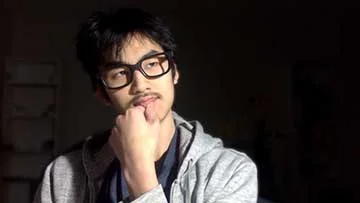
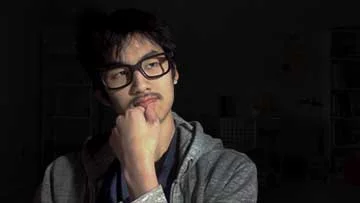
Fixed blogs - Rewrote the insanity of #1 - Cited #3 - Fixed photo for #3 - New tst record!

diff --git a/src/views/blog/TheoryOfKnowledge.vue b/src/views/blog/TheoryOfKnowledge.vue
@@ -23,20 +23,28 @@
         I will be discussing “To what extent are theories concluded by multiple theories more plausible to be considered more pragmatically valid than those concluded by a single theory?” to determine whether retaining a multiplicity of theories is beneficial in pragmatically validating theories that help us understand the world. Given that theories in the area of knowledge of natural science can only be disproved, rather than proved, theories concluded by a single theory are more vulnerable to be pragmatically invalid than theories concluded by multiple theories, because the former is coherent to less theories than the latter, which means that if the theory that it concludes from is disproved, the entire concluded theory would be hypothetical. Whereas the disproving of one theory of the multiple theories that conclude the latter theory would not always completely pragmatically invalidate the concluded theory.
       </div>
       <div class="paragraph">
-        When Albert Einstein wrote his field equations for general relativity in 1917, he noticed the inaccuracy in his equation despite having the correct variables. As a result, he proposed that there existed a cosmological constant, which is the energy density of space, that should be put into the equation. The cosmological constant was determined by Einstein with the theories of general relativity and static universe — a cosmological model in which the universe is spatially and temporally infinite, and is neither expanding nor contracting. The presence of this constant was later questioned in 1931, as Edwin Hubble proposed that the universe is not static, but is expanding. Consequently, most physicists believed that there existed no such cosmological constant. However, due to the coherence of the cosmological constant with Einstein’s field equation for general relativity, the theory of this constant was not completely invalidated. Either there exists a cosmological constant, or Einstein’s field equation was wrong. In 1998, it was discovered that the expansion of the universe is accelerating, which suggests that there does exist such a cosmological constant, and is a positive non-zero number. This exemplifies how a theory that is concluded from multiple theories is not necessarily invalid when one of the many theories that it concludes from is proven to be invalid. On the other hand, when a theory is concluded from only one theory, the invalidation of just one theory could make the entire conclusion hypothetical. An example of this is the luminiferous aether theory of light. People believed that light was unable to propagate through a vacuum. Accordingly, they assumed that there existed a space-filling substance or field called the “aether” to propagate light. The luminiferous aether theory was then further used to explain the propagation of electromagnetic and gravitational forces. However, when Michelson Morely disproved the luminiferous aether theory in 1887, the aether explanation for electromagnetic and gravitational forces was immediately debunked. Therefore, theories concluded by a single theory are more vulnerable to be pragmatically invalid than theories concluded by multiple theories. As supported by the examples, a theory concluded from only one theory can be invalidated as long as the theory that it concludes from is invalidated, but theories that are concluded from multiple theories cannot be completely invalidated with the invalidation of only one theory. Thence, we need to retain a multiplicity of theories to understand the world because they help us conclude theories that are more pragmatically valid.
+        When Albert Einstein wrote his field equations for general relativity in 1917, he noticed the inaccuracy in his equation despite having the correct variables. As a result, he proposed that there existed a cosmological constant, which is the energy density of space, that should be put into the equation. The cosmological constant was determined by Einstein with the theories of general relativity and static universe — a cosmological model in which the universe is spatially and temporally infinite, and is neither expanding nor contracting.<sup>1</sup> The presence of this constant was later questioned in 1931, as Edwin Hubble proposed that the universe is not static, but is expanding.<sup>2</sup> Consequently, most physicists believed that there existed no such cosmological constant. However, due to the coherence of the cosmological constant with Einstein’s field equation for general relativity, the theory of this constant was not completely invalidated. Either there exists a cosmological constant, or Einstein’s field equation was wrong. In 1998, it was discovered that the expansion of the universe is accelerating, which suggests that there does exist such a cosmological constant, and is a positive non-zero number.<sup>3</sup> This exemplifies how a theory that is concluded from multiple theories is not necessarily invalid when one of the many theories that it concludes from is proven to be invalid. On the other hand, when a theory is concluded from only one theory, the invalidation of just one theory could make the entire conclusion hypothetical. An example of this is the luminiferous aether theory of light. People believed that light was unable to propagate through a vacuum. Accordingly, they assumed that there existed a space-filling substance or field called the “aether” to propagate light. The luminiferous aether theory was then further used to explain the propagation of electromagnetic and gravitational forces. However, when Michelson Morely disproved the luminiferous aether theory in 1887, the aether explanation for electromagnetic and gravitational forces was immediately debunked. Therefore, theories concluded by a single theory are more vulnerable to be pragmatically invalid than theories concluded by multiple theories. As supported by the examples, a theory concluded from only one theory can be invalidated as long as the theory that it concludes from is invalidated, but theories that are concluded from multiple theories cannot be completely invalidated with the invalidation of only one theory. Thence, we need to retain a multiplicity of theories to understand the world because they help us conclude theories that are more pragmatically valid.
       </div>
       <div class="paragraph">
-        On the contrary, in the area of knowledge of ethics, standards are usually formed by a single theory that a person prefers, and the acceptance of a theory usually comes at the expense of rejecting the others. Therefore, theories concluded by multiple theories are pragmatically valid to no extent because retaining a multiplicity of theories causes the corresponding validation to contradict the other theories, which induces a pragmatic discrepancy with personal ethical standards. In a worldwide survey of 2.3 million people called The Moral Machine, people from the Western, Eastern, and Southern sides of the world were prompted with a hypothetical ethical dilemma of who they would spare in an inevitable car crash, if they were the programmers of a self-driving car. As a result, most Eastern people would spare the elderly, most Southern people would spare the children, whereas most Western people would remain inactive. This divergent result reflects that the acquisition of knowledge in ethics is dependent on personal preferences, and is different across the world because of divergent cultural values, which implies that most ethical standards are not universal. If one chooses not to crash into the children because they support the theory that young lives are more valuable, they then automatically reject the theory that old lives are more valuable. Even if the complexity of the dilemma was higher, such as a group of elderly to one child, either choice would reject the theory that the quantitative and qualitative value of the other side is higher. Therefore, one cannot conclude pragmatic ethical theories while retaining a multiplicity of other ethical theories, and thus, we do not need to retain a multiplicity of theories to understand the world of ethical choices.
+        On the contrary, in the area of knowledge of ethics, standards are usually formed by a single theory that a person prefers, and the acceptance of a theory usually comes at the expense of rejecting the others. Therefore, theories concluded by multiple theories are pragmatically valid to no extent because retaining a multiplicity of theories causes the corresponding validation to contradict the other theories, which induces a pragmatic discrepancy with personal ethical standards. In a worldwide survey of 2.3 million people called The Moral Machine, people from the Western, Eastern, and Southern sides of the world were prompted with a hypothetical ethical dilemma of who they would spare in an inevitable car crash, if they were the programmers of a self-driving car.<sup>4</sup> As a result, most Eastern people would spare the elderly, most Southern people would spare the children, whereas most Western people would remain inactive.<sup>5</sup> This divergent result reflects that the acquisition of knowledge in ethics is dependent on personal preferences, and is different across the world because of divergent cultural values, which implies that most ethical standards are not universal. If one chooses not to crash into the children because they support the theory that young lives are more valuable, they then automatically reject the theory that old lives are more valuable. Even if the complexity of the dilemma was higher, such as a group of elderly to one child, either choice would reject the theory that the quantitative and qualitative value of the other side is higher. Therefore, one cannot conclude pragmatic ethical theories while retaining a multiplicity of other ethical theories, and thus, we do not need to retain a multiplicity of theories to understand the world of ethical choices.
       </div>
       <div class="paragraph">
         Next, I will be discussing “To what extent does the multiplicity of premises in a syllogism make their limitation lower than the limitation of the theory that they conclude?” to determine the necessity of retaining a multiplicity of theories to overcome the limitations of each individual theory. The conclusion of a theory in syllogism can be made using either inductive or deductive reasoning. When using inductive reasoning, the conclusion must have an equal or higher limitation than the premises. For example, in the area of knowledge of natural science, the premises of “all atoms have at least one proton” and “boron is an atom” can lead us to conclude that boron has at least one proton. In this example, the conclusion has a higher limitation than the premises by stating that boron specifically has at least one proton. Although this shows that retaining a multiplicity of theories helps us conclude more specific theories, it does not help us overcome the limitations of the premises, as the conclusion has a higher limitation. On the other hand, while deductive reasoning helps us overcome the limitations of the premises, unlike inductive reasoning, scientists need to use other theories to explain why the deduced conclusion works. For example, a sample of premises that each state that a specific ionic compound has a high boiling point were put together to conclude that all ionic compounds have high boiling points. However, after the scientists made that conclusion, they went on and explained the phenomenon by stating that ionic compounds have high electrostatic forces of attraction between the oppositely charged ions, hence require more energy to be broken apart. This means that retaining a multiplicity of premises overcomes the limitation of each premise to a limited extent because it does not lead to a lower limitation without the explanation from another scientific theory, and that scientific theory can be used to overcome the limitations without the multiplicity of the premises anyway.
       </div>
       <div class="paragraph">
-        Contrarily, in the area of knowledge of ethics, deduced theories do not need to be explained, as long as they are consistently observed. In an experiment where three to six-month-old babies were shown a scene where a puppet is struggling to open a box, and one puppet tries to help, while the other shuts the box closed, more than three quarters of the babies preferred the puppet who helped rather than the one who did the opposite. They then used deductive reasoning to conclude that humans develop positive feelings toward helpful individuals, at as early as three months old. This conclusion was made and accepted without having an explanation, because the phenomenon was consistently observed. Thus, retaining a multiplicity of premises does help us overcome their limitations, and support theories that help us better understand the world.
+        Contrarily, in the area of knowledge of ethics, deduced theories do not need to be explained, as long as they are consistently observed. In an experiment where three to six-month-old babies were shown a scene where a puppet is struggling to open a box, and one puppet tries to help, while the other shuts the box closed, more than three quarters of the babies preferred the puppet who helped rather than the one who did the opposite. They then used deductive reasoning to conclude that humans develop positive feelings toward helpful individuals, at as early as three months old.<sup>6</sup> This conclusion was made and accepted without having an explanation, because the phenomenon was consistently observed. Thus, retaining a multiplicity of premises does help us overcome their limitations, and support theories that help us better understand the world.
       </div>
       <div class="paragraph">
         To understand the world, we must continue exploring and validating new theories. In the areas of knowledge with relativism, the multiplicity of theories leads to contradiction and therefore hinders the pragmatic validity of theories. However, in other areas of knowledge, it prevents theories from being disproved, and thus helps us enforce pragmatic validity. Moreover, in areas of knowledge where theories can be validated using only observation, the multiplicity of theories can even assist us in overcoming the limitation of each individual theory, helping us explore new theories.
       </div>
+      <cite>
+        <div>1. Albert Einstein, <em>Kosmologische Betrachtungen zur allgemeinen Relativitätstheorie</em> (Sitzungsberichte der Königlich Preußischen Akademie der Wissenschaften. Berlin, DE., 1917), part 1: 142–152. <span style="color: #ff6dcc;">Yep, that's right. I cited Einstein. Give me my IB diploma already!</span></div>
+        <div>2. Svend Rugh; Henrik Zinkernagel, <em>The Quantum Vacuum and the Cosmological Constant Problem</em> (Studies in History and Philosophy of Modern Physics, 2001), 33 (4): 663–705.</div>
+        <div>3. Nathaniel Scharping, <em>Gravitational Waves Show How Fast The Universe is Expanding</em> (Astronomy,2017), accessed December 26, 2019, <a href="http://www.astronomy.com/news/2017/10/gravitational-waves-show-how-fast-the-universe-is-expanding" target="_blank" rel="noopener noreferrer">http://www.astronomy.com/news/2017/10/gravitational-waves-show-how-fast-the-universe-is-expanding</a>.</div>
+        <div>4. <em>The Moral Machine</em> (Scalable Cooperation at MIT Media Lab, 2016), accessed December 16, <a href="http://moralmachine.mit.edu" target="_blank" rel="noopener noreferrer">http://moralmachine.mit.edu</a>.</div>
+        <div>5. Amy Maxmen, <em>Self-driving car dilemmas reveal that moral choices are not universal</em> (Nature, 2018), accessed December 16, <a href="https://media.nature.com/lw800/magazine-assets/d41586-018-07135-0/d41586-018-07135-0_16219594.png" target="_blank" rel="noopener noreferrer">https://media.nature.com/lw800/magazine-assets/d41586-018-07135-0/d41586-018-07135-0_16219594.png</a>.</div>
+        <div>6. Jason Mudd, <em>60-Minutes "The Baby Lab" 1 of 2</em> (Youtube, 2013), accessed December 16, 2019, <a href="https://www.youtube.com/watch?v=8LIb22-5Lwg" target="_blank" rel="noopener noreferrer">https://www.youtube.com/watch?v=8LIb22-5Lwg</a>.</div>
+      </cite>
     </div>
   </div>
 </template>

diff --git a/src/views/blog/NoHopeForMercy.vue b/src/views/blog/NoHopeForMercy.vue
@@ -22,25 +22,22 @@
       <div class="paragraph">
         What about my belief? Well, my ideas are often more divergent. After a spicy encounter with a girl who I deify, I believe that most people are born innocent, but I was born fake.
       </div>
-      <h1>The deity</h1>
+      <h1>The deities</h1>
       <div class="paragraph">
-        Language is equivocal. Unlike science and math, rules in language arts are inconsistent. Writings can be opened to a duplicity of interpretations, and the same message can also be conveyed through different methods with creativity. I am more of a logos person than I am pathos and ethos. I often feel unmitigated to be in my English IB class where all of my classmates are enlightened with transcendental writing and interpretation skills. Thus, I respect those who are adequate in language arts for their gifted skills that I failed acquired despite the effort I put in.
+        Art is equivocal. Unlike science and math, rules in the area of knowledge of arts are inconsistent. Artworks can be opened to a duplicity of interpretations, and the same message can also be conveyed through different methods with creativity. I am more of a logos person than I am pathos and ethos. I often feel unmitigated to be in my English IB class where all of my classmates are enlightened with transcendental interpretation skills. Thus, I respect those who are adequate in arts for their gifted skills that I failed acquired despite all the effort I put in.
       </div>
       <div class="paragraph">
-        Of these English excelsiors, I especially admire a girl from my English class, who not only uses words like “transcendental”, “anaphora”, and “bravado” casually to share her creative yet logical intelligence in class, but also expertizes drama and improv. Oh, and if that is not enough to impress you, she published a book in grade 11.
-      </div>
-      <div class="paragraph">
-        My feeling for her isn't romantic love or lust. It is purely reverence. She is a role model who I look up to and try to learn from. A role model who reminds me to be humble and thus motivates me to improve. A role model who makes me discard my characteristics to adopt more of hers.
+        I venerate all those art excelsiors. They are people who I look up to and try to learn from. People who remind me to be humble, and motivate me to improve. People who make me discard my characteristics to adopt more of theirs.
       </div>
       <h1>The finale night</h1>
       <div class="paragraph">
-        With such admiration, during the week of our school's One Act Festival, I of course did not let the opportunity to savour her plays slip through. I went to all the days with plays either directed by or staring her, with <a href="https://voovs.github.io" target="_blank" rel="noopener noreferrer">my friend Vova</a>, who is also a worshipper of her. On the finale night, I took down the plays' posters around the school that were no longer in use, and planned to ask for autographs from actors of plays I enjoyed.
+        With such admiration of arts, during the week of our school's One Act Festival, I of course did not let the opportunity to savour performance arts slip through. On the finale night, I took down the plays' posters around the school that were no longer in use, and planned to ask for autographs from actors of plays I enjoyed.
       </div>
       <div class="paragraph">
-        As the night continued, it came to the time for the goddess' play: <em>Hope 'n Mercy</em> — the most insightful and emotional play throughout the festival. Undoubtedly the hardest to act. Expectedly, she perfectly killed that play with her undeniably phenomenal acting. The cathartic anger, sadness, and the unwavering accent that retained even when she was shouting; the multiplicity of characters that she played by changing clothes quickly offstage; and the transition smoother than a puck sliding on ice, altogether gave me a completely fresh experience of enjoying plays.
+        As the night continued, it came to a play that really grabbed my attention: <em>Hope 'n Mercy</em> — the most insightful and emotional play throughout the festival. Undoubtedly the hardest to act. Expectedly, the drama students perfectly killed that play with their undeniably phenomenal acting. The cathartic anger, sadness, and the unwavering accent that retained even when they were shouting; the multiplicity of characters that they played by changing clothes quickly offstage; and the transition smoother than a puck sliding on ice, altogether gave me a completely fresh experience of enjoying plays.
       </div>
       <div class="paragraph">
-        There were two more plays after her performance, so I did not ask for the autograph right away. The last play, <em>Werewolf Therapist</em>, was indisputably the funniest play of the festival. The theatre was filled with laughter every 5 or less seconds. After the last applause evanesced in the theatre, I rushed down the stairs with Vova to get autographs from directors and the, as the goddess puts it in her director's notes, “lovely, adorable, and dedicated actors”.
+        There were two more plays after <em>Hope 'n Mercy</em>, so I did not ask for the autograph right away. The last play, <em>Werewolf Therapist</em>, was indisputably the funniest play of the festival. The theatre was filled with laughter every 5 or less seconds. After the last applause evanesced in the theatre, I rushed down the stairs with <a href="https://voovs.github.io" target="_blank" rel="noopener noreferrer">my friend Vova</a> to get autographs from the directors and, as they put in their directors' notes, “lovely, adorable, and dedicated actors”.
       </div>
       <div class="paragraph">
         Since the crew for <em>Werewolf Therapist</em> was still on the stage complimenting each other's performance, and I had a friend who played a lead role in that play, it made sense that I started with them. It turned out that they loved giving out autographs as it made them feel famous. Within seconds, I was surrounded by the whole crew fighting for their turn to sign my poster. The werewolf even snatched the poster from another actor who was about to sign it, and kissed the poster with his bloody lips.
@@ -52,19 +49,19 @@
       </picture>
       <div class="image-description">The red mark in the centre is the kiss from the werewolf</div>
       <div class="paragraph">
-        By the time the werewolf crew finished signing, the goddess had already left the stage to change with another actor from <em>Hope 'n Mercy</em>. But hey, the reaction from the werewolf crew was so lively, when she comes back from the change room to see Vova and I asking for her autographs, she wouldn't mind signing them either, right?
+        By the time the werewolf crew finished signing, the actors from <em>Hope 'n Mercy</em> had already left the stage to change. But hey, the reaction from the werewolf crew was so lively, when they come back from the change room to see Vova and I asking for their autographs, they wouldn't mind signing them either, right?
       </div>
       <div class="paragraph">
-        So I decided to wait. There were three actors for <em>Hope 'n Mercy</em>. Since two are in the change room, I asked for the signature of the one who played Bradly Jenkins and started chatting with another actor. When the goddess came back, I caught the action of Vova asking for her autograph with the corners of my eyes. I quickly finished off the conversation with the actor, and turned to the goddess and said “May I have one too?”, assuming that Vova had already gotten the autograph.
+        So I decided to wait. There were three actors for <em>Hope 'n Mercy</em>. Since two were in the change room, I asked for the autograph of the other one, who played Bradly Jenkins, and started chatting with another actor. When the other two actors came back, I caught the action of Vova asking for their autographs with the corners of my eyes. I quickly finished off the conversation with the actor, and turned to them and said “May I have one too?”, assuming that Vova had already gotten his.
       </div>
       <div class="paragraph">
-        She took the pen with a bitter expression, and put down her initial with the pen that was running out of ink. An ambivalent feel emanated from the air. On one hand, I was elated because I got her signature, on the other hand, the unusually bitter look on her face was new to me. Unfortunately, I did not pick up on the hint, and asked for another autograph on <em>Coping Mechanism</em> — a play directed by her. She quickly put down her initials again and walked away before I had a chance to get another one for <em>Anybody for Tea?</em>, a comedy she had a minor role in.
+        The actor playing Mrs. Hope took the pen with a bitter expression, and put down her initial with the pen that was running out of ink. An ambivalent feel emanated from the air. On one hand, I was elated because I got her autograph, on the other hand, the unusually bitter look on her face was new to me. Unfortunately, I did not pick up on the hint, and asked for another autograph on <em>Coping Mechanism</em> — a play directed by her. She quickly put down her initials again and walked away before I had a chance to get another one for <em>Anybody for Tea?</em>, a comedy she had a minor role in.
       </div>
       <div class="paragraph">
-        Then I turned to the last actor from <em>Hope 'n Mercy</em>, who also just came out of the changing room. As she was laughing about not having a signature, the goddess took a step toward her and insisted her to just put down her initials. As someone who is terrible at noticing hints, I did not feel anything was wrong at the moment.
+        Then I turned to the last actor from <em>Hope 'n Mercy</em>, who also just came out of the changing room. As she was laughing about not having a signature, the one who just gave me the autograph took a step toward her and insisted to just put down her initials. As someone terrible at noticing hints, I did not feel anything was wrong at the moment.
       </div>
       <div class="paragraph">
-        Walking out of the theatre ebulliently, Vova whispered to me that the goddess called him <strong>fake</strong>.
+        Walking out of the theatre ebulliently, Vova whispered to me that the actor for Mrs. Hope called him <strong>fake</strong>.
       </div>
       <div class="quote">
         “Lol, why? What did you say?” I asked, expected to hear another funny story because Vova does have a lot of failed socializing anecdotes
@@ -82,7 +79,7 @@
       </picture>
       <div class="image-description">Image by <a href="https://www.marvel.com" target="_blank" rel="noopener noreferrer">Marvel Studios</a></div>
       <div class="quote">
-        Vova to the goddess: “Hey, can I have your signature?” (Vova and I had discussed the word <strong>fake</strong> for a while now, and we think that maybe the word “signature” and the crumpled pamphlet were the problems)
+        Vova to her: “Hey, can I have your signature?” (Vova and I had discussed the word <strong>fake</strong> for a while now, and we think that maybe the word “signature” and the crumpled pamphlet were the problems)
       </div>
       <div class="quote">
         Her: “That sounds <strong>fake</strong>”
@@ -103,7 +100,7 @@
         How ambivalent, isn't it? I am left with a concoction of feeling ashamed to be so ignorant to pathos, feeling hurt and pathetic to be called fake, and impressed by how she saw through us under 2 seconds. She then turned this information, that I didn't even know, to such an ambiguous insult that left Vova and I interpreting for days.
       </div>
       <div class="paragraph">
-        So, I feel like I am stuck inside this loop of contemplating my egregiousness, and wanting to abandon my fakeness by imitating the goddess. But finding myself fake when forsaking my own personality. I've come to the conclusion that <strong>fake</strong> might be the best insult ever. Being called anything else, you can change and become a better person to prove that you are not what they insult you as. However, any attempts at recovering from fake would also look fake. Wow! She really is too good!
+        So, I feel like I am stuck inside this loop of contemplating my egregiousness, and wanting to abandon my fakeness by imitating the goddess. But finding myself fake when forsaking my own personality. I've come to the conclusion that <strong>fake</strong> might be the best insult ever. Being called anything else, you can change and become a better person to prove that you are not what they insult you as. However, any attempts at recovering from fake would also look fake. Wow! Artsy people really are too good!
       </div>
     </div>
   </div>

diff --git a/src/views/Blog.vue b/src/views/Blog.vue
@@ -58,6 +58,18 @@ export default {
         margin-bottom: 2em;
       }
     }
+    sup {
+      font-size: 12px;
+    }
+    cite {
+      font-style: normal;
+      div {
+        margin-bottom: 10px;
+        a:hover {
+          color: $secondary-colour;
+        }
+      }
+    }
     img {
       width: 100%;
       margin-bottom: 10px;
@@ -107,13 +119,13 @@ export default {
       margin: -0.2em 0 0.7em 10px;
     }
     #text {
-    h1 {
-      font-size: 33px;
+      h1 {
+        font-size: 33px;
+      }
+      .quote {
+        margin-left: 1em;
+      }
     }
-    .quote {
-      margin-left: 1em;
-    }
-  }
   }
 }
 </style>

diff --git a/src/views/Projects.vue b/src/views/Projects.vue
@@ -23,7 +23,7 @@
         <div class="title">Typing Speed Test</div>
         <div class="description">
           Type as fast as you can in 1 minute to check out your typing speed. Can you go any faster
-          than my record of 634?
+          than my record of 683?
         </div>
         <div class="image-container">
           <picture>
